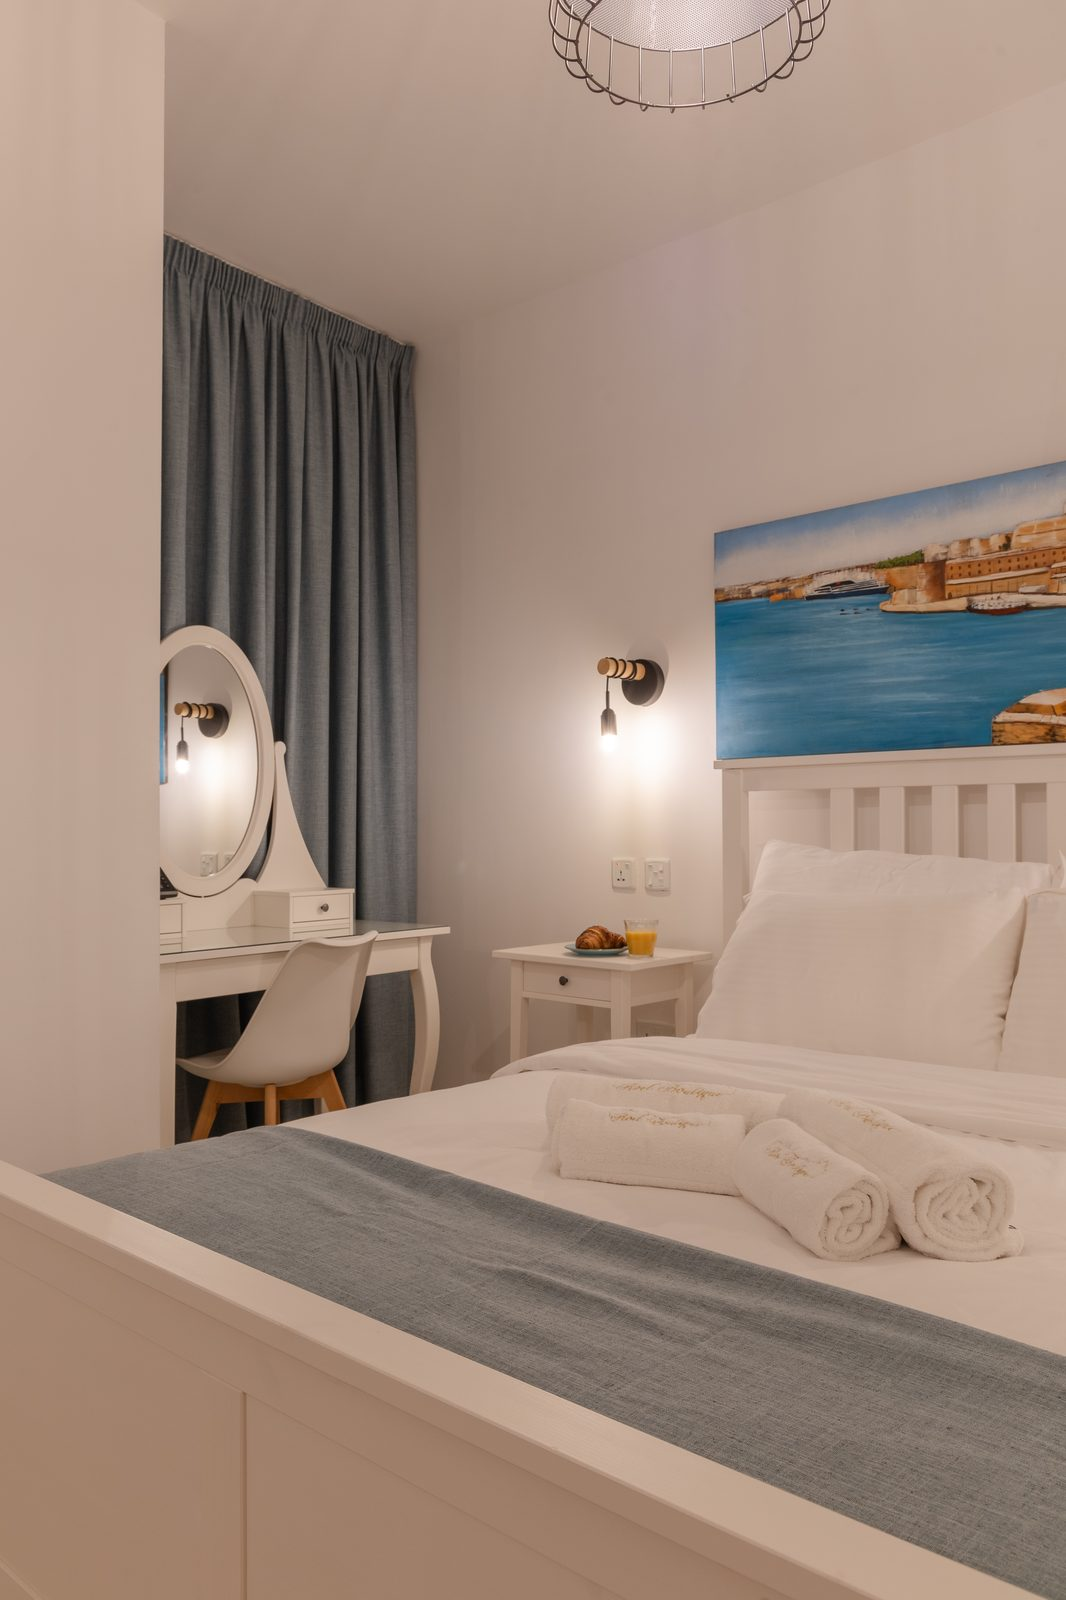
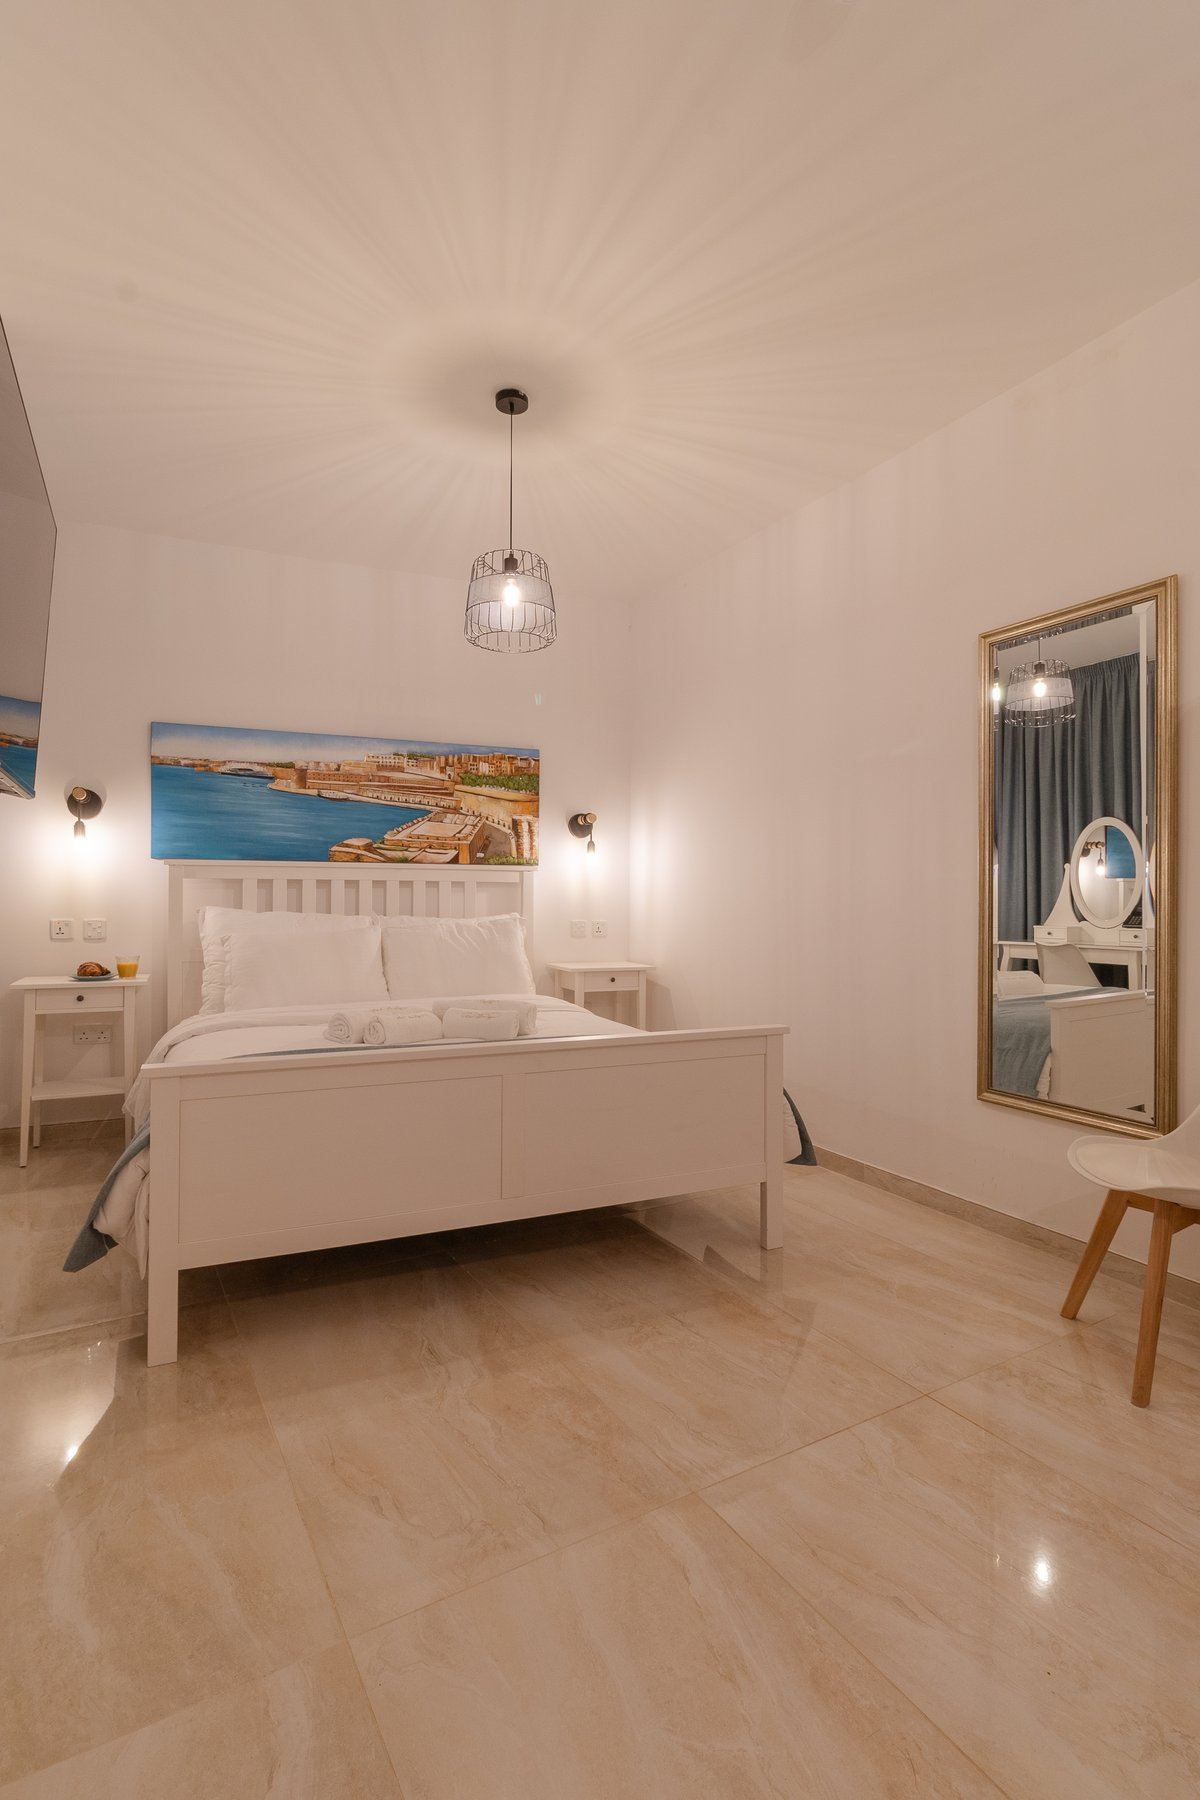
Hide Away gallery: new bedroom photo, remove terrace image
- Replace heritage-suite-5.jpg with new bedroom photo (1200x1800), update alt/title
- Remove the 'Terrace seating area' gallery item from Hide Away only
  (other room pages keep it)

diff --git a/site/hide-away.html b/site/hide-away.html
@@ -337,9 +337,9 @@
                     </a>
                 </div>
                 <div class="col-md-3 col-6 gallery-item">
-                    <a href="img/rooms/heritage-suite-5.jpg" title="Hide Away bed detail" class="img-zoom">
+                    <a href="img/rooms/heritage-suite-5.jpg" title="Hide Away bedroom" class="img-zoom">
                         <div class="gallery-box">
-                            <div class="gallery-img"> <img src="img/rooms/heritage-suite-5.jpg" class="img-fluid mx-auto d-block" alt="Hide Away bed with breakfast"> </div>
+                            <div class="gallery-img"> <img src="img/rooms/heritage-suite-5.jpg" class="img-fluid mx-auto d-block" alt="Hide Away bedroom with Valletta harbour painting"> </div>
                         </div>
                     </a>
                 </div>
@@ -354,13 +354,6 @@
                     <a href="img/rooms/hide-away-bathroom.jpg" title="Private bathroom" class="img-zoom">
                         <div class="gallery-box">
                             <div class="gallery-img"> <img src="img/rooms/hide-away-bathroom.jpg" class="img-fluid mx-auto d-block" alt="Private bathroom"> </div>
-                        </div>
-                    </a>
-                </div>
-                <div class="col-md-3 col-6 gallery-item">
-                    <a href="img/rooms/roel-terrace-gallery.jpg" title="Terrace seating area" class="img-zoom">
-                        <div class="gallery-box">
-                            <div class="gallery-img"> <img src="img/rooms/roel-terrace-gallery.jpg" class="img-fluid mx-auto d-block" alt="Terrace seating area"> </div>
                         </div>
                     </a>
                 </div>
